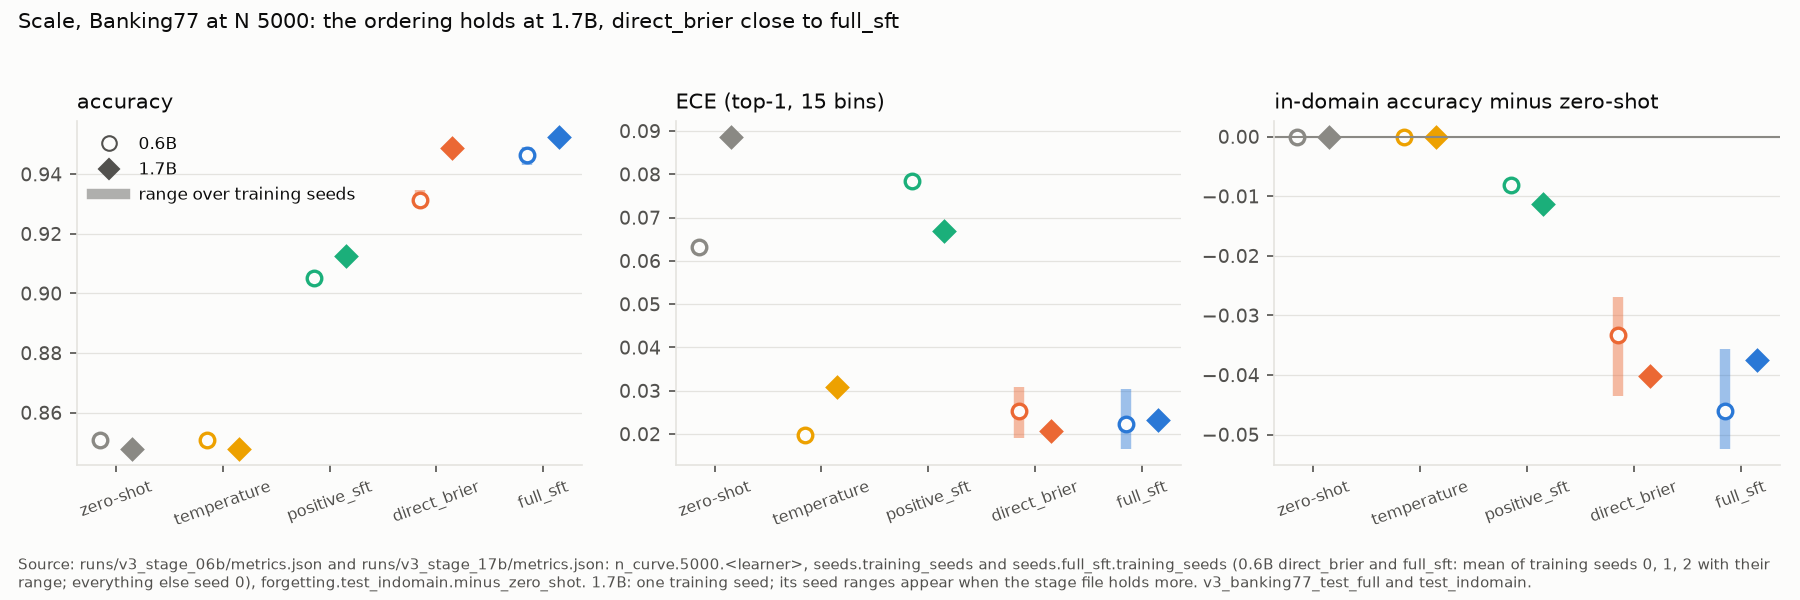
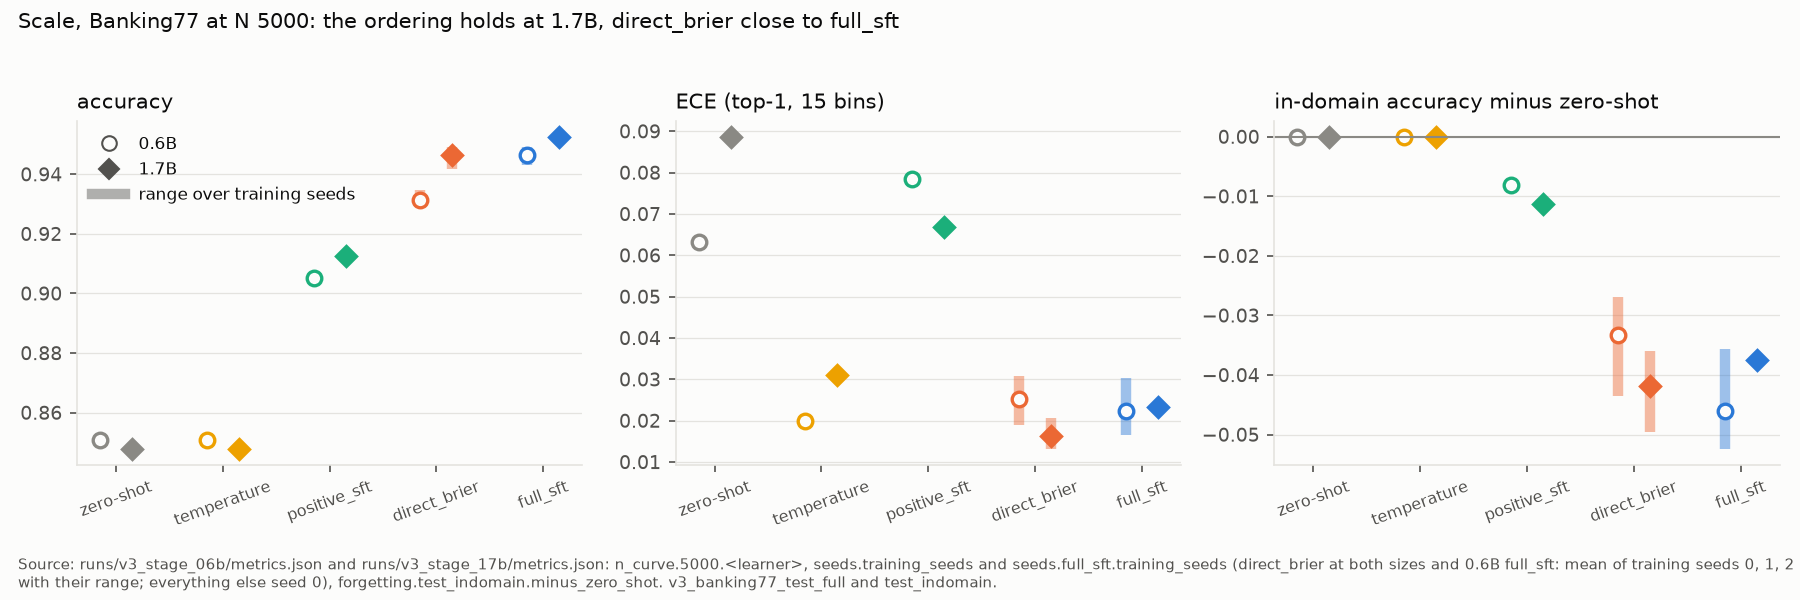
docs: 1.7B seeds in paper, results and figures

diff --git a/scripts/make_figures.py b/scripts/make_figures.py
@@ -545,8 +545,8 @@ def v4_scale(runs: Path, out: Path, written: list[Path]) -> None:
     fig.suptitle("Scale, Banking77 at N 5000: the ordering holds at 1.7B, direct_brier close to full_sft", x=0.01, ha="left", fontsize=10)
     fig.tight_layout(rect=(0, 0.09, 1, 0.95))
     caption(fig, "Source: runs/v3_stage_06b/metrics.json and runs/v3_stage_17b/metrics.json: n_curve.5000.<learner>, seeds.training_seeds and seeds.full_sft.training_seeds "
-                 "(0.6B direct_brier and full_sft: mean of training seeds 0, 1, 2 with their range; everything else seed 0), forgetting.test_indomain.minus_zero_shot. "
-                 "1.7B: one training seed; its seed ranges appear when the stage file holds more. v3_banking77_test_full and test_indomain.")
+                 "(direct_brier at both sizes and 0.6B full_sft: mean of training seeds 0, 1, 2 with their range; everything else seed 0), "
+                 "forgetting.test_indomain.minus_zero_shot. v3_banking77_test_full and test_indomain.")
     save(fig, out, "v4_scale.png", written)
 
 
@@ -588,9 +588,7 @@ FIGURES = (v1_full_splits, v1_subset, v2_cascade, v2_reliability, v2_arm_ece, v3
 EXPECTED = ("v1_full_splits.png", "v1_subset.png", "v2_cascade.png", "v2_reliability.png", "v2_arm_ece.png", "v3_n_curve.png", "v3_coverage.png", "v3_noise.png",
             "v4_offpolicy.png", "v4_noise_sweep.png", "v4_scale.png", "v4_emotion_n_curve.png")
 # Figures waiting for runs, not drawn: the file each would read and what it waits for.
-PENDING = {
-    "v4_scale.png, 1.7B seed ranges": ("runs/v3_stage_17b/metrics.json", "direct_brier seeds 1 and 2 at 1.7B; drawn by v4_scale without a code change once present"),
-}
+PENDING: dict[str, tuple[str, str]] = {}
 
 
 def main(argv: Sequence[str] | None = None) -> int:

diff --git a/docs/RESULTS_v3.md b/docs/RESULTS_v3.md
@@ -307,7 +307,7 @@ The predictions as stated before the runs, each with its verdict.
 - **Two domains.** Banking77, with 10 options and gold always present, so `other` is never right and "never answer other" is free to learn; and emotion, with 6 options and no `other` (section 13). Other option counts or a gold-absent construction may differ.
 - **One logging policy per domain.** sft_06b at epsilon 0.1, .836 accurate on the Banking77 log domain and .542 on emotion (`runs/v3_log_s0/metrics.json:accuracy`, `runs/v3_log_emotion_s0/metrics.json:accuracy`); the emotion log shows a weaker policy changes how many negatives there are (section 13), and a more exploratory one would change which.
 - **A simulated feedback channel.** Outcomes come from gold labels, revealed perfectly or flipped symmetrically at a known rate; real deployment feedback is delayed, biased towards some errors and of unknown noise rate, which the inversion needs.
-- **Two sizes, one seed at the larger.** 0.6B for everything; 1.7B for the N 5000 comparison of three learners, on one training seed and one log (section 12).
+- **Two sizes, one seed for the baselines at the larger.** 0.6B for everything; 1.7B for the N 5000 comparison of three learners on one log, with direct_brier on three training seeds and positive_sft and full_sft on one (section 12).
 - **The checkpoint grid.** Checkpoints are every 50 steps. At N 2000 direct_log and ips_log peaked at step 50, the first candidate, so a finer grid could favour the log-score arms there (section 11).
 - **The noise sweep has one seed per rate.** The rates are paired through nested flips, which makes the trends over f firmer than independent draws would, but the learner comparison at a given rate carries training-seed variance (section 4).
 - **positive_sft has one seed.** Its side of every comparison carries no seed variance; direct_brier's and full_sft's three seeds each span .6 points on Banking77 accuracy, which suggests it is small. full_sft was run on three seeds at N 5000 (section 3); at N 500 and 2000 every learner has seed 0 only.
@@ -319,7 +319,7 @@ The predictions as stated before the runs, each with its verdict.
 
 v3 shows that when a deployed model sees only the correctness of its own actions on a new domain, training on that signal with a pathwise Brier loss beats discarding the failures, by 2.4 to 2.7 points of accuracy from 2000 logged interactions and by about .05 to .06 ECE at every N, and that it closes 69 to 91 percent of the accuracy gap between zero-shot and full-label SFT. It does not show that RLCD approaches full labels as feedback grows, since the 1.5-point gap at N 5000 (seed means of both) is no smaller than at N 500, and it does not show calibration robust to noisy feedback, where a proper score calibrates to the channel and needs a known noise rate to be undone. Together with v2, the claim that survives is narrow: RLCD adds value over positive-only SFT when the only feedback is partial, and nowhere else that was tested.
 
-Phase 4 adds four checks (sections 4, 11, 12 and 13), and they leave that claim standing. Importance weighting adds nothing on this log, and a log score in place of the Brier score is a choice within the same pathwise family, with a small lead on Brier and NLL and more in-domain forgetting. At 1.7B the ordering holds and direct_brier comes within .4 points of full-label SFT, with an interval covering 0, on one seed. Under noise, RLCD's smaller accuracy loss than positive-only SFT holds at flip rates 0.1 and 0.2 and is gone at 0.3. On a second domain, emotion, with a logging policy wrong on more than half the log, RLCD leads positive-only SFT at every N and by 21.7 points at N 5000, and the gap to full labels is larger, 4.3 points (section 13).
+Phase 4 adds four checks (sections 4, 11, 12 and 13), and they leave that claim standing. Importance weighting adds nothing on this log, and a log score in place of the Brier score is a choice within the same pathwise family, with a small lead on Brier and NLL and more in-domain forgetting. At 1.7B the ordering holds on three training seeds of direct_brier, and its gap to full-label SFT shrinks from 1.5 points at 0.6B to .6 points [.2, 1.1], against a single full_sft seed at 1.7B. Under noise, RLCD's smaller accuracy loss than positive-only SFT holds at flip rates 0.1 and 0.2 and is gone at 0.3. On a second domain, emotion, with a logging policy wrong on more than half the log, RLCD leads positive-only SFT at every N and by 21.7 points at N 5000, and the gap to full labels is larger, 4.3 points (section 13).
 
 ## 11. Off-policy baselines
 
@@ -421,12 +421,16 @@ On v3_banking77_test_full at N 5000 (`L:n_curve.5000`; 0.6B from `S:n_curve.5000
 | direct_brier | .949 [.941, .957] | .021 [.015, .028] | .079 | .188 | .929 | .931 (.929, .935) | .025 |
 | full_sft | .953 [.945, .960] | .023 [.018, .030] | .072 | .162 | .947 | .946 (.943, .949) | .022 |
 
-Paired differences at 1.7B (`L:n_curve.5000.direct_brier_minus_positive_sft`, `.direct_brier_minus_full_sft`) and the 0.6B seed-mean counterparts (`S:seeds.training_seed_mean_minus_positive_sft`, `S:seeds.training_seed_mean_minus_full_sft_seed_mean`):
+Session L (decision 69) added direct_brier at N 5000 for training seeds 1 and 2 on the same 1.7B log, at commit 344019b, not dirty, fp16 without fallback, selected steps 450 and 250 (`runs/v3_17b_direct_brier_n5000_s{1,2}/train_summary.json:best_step`). Over the three seeds (`L:seeds.training_seeds`), direct_brier's accuracy is .947 (.942, .949), ECE .016 (.013, .021), Brier .084 (.079, .093) and NLL .192 (.182, .205); the accuracy range, .7 points, is like 0.6B's .6.
+
+Paired differences at 1.7B, seed 0 (`L:n_curve.5000.direct_brier_minus_positive_sft`, `.direct_brier_minus_full_sft`) and the three-seed mean against the single seed of each baseline (`L:seeds.training_seed_mean_minus_positive_sft`, `L:seeds.training_seed_mean_minus_full_sft`), and the 0.6B seed-mean counterparts (`S:seeds.training_seed_mean_minus_positive_sft`, `S:seeds.training_seed_mean_minus_full_sft_seed_mean`):
 
 | | accuracy | ECE | Brier | NLL |
 |---|---|---|---|---|
-| 1.7B direct_brier minus positive_sft | +.036 [+.028, +.045] | -.046 [-.054, -.037] | -.075 [-.088, -.061] | -.357 [-.411, -.306] |
-| 1.7B direct_brier minus full_sft | -.004 [-.010, +.002] | -.002 [-.008, +.004] | +.007 [+.001, +.013] | +.026 [+.013, +.040] |
+| 1.7B direct_brier seed 0 minus positive_sft | +.036 [+.028, +.045] | -.046 [-.054, -.037] | -.075 [-.088, -.061] | -.357 [-.411, -.306] |
+| 1.7B direct_brier seed 0 minus full_sft | -.004 [-.010, +.002] | -.002 [-.008, +.004] | +.007 [+.001, +.013] | +.026 [+.013, +.040] |
+| 1.7B seed mean minus positive_sft | +.034 [+.026, +.041] | -.051 [-.057, -.040] | -.070 [-.083, -.057] | -.353 [-.409, -.303] |
+| 1.7B seed mean minus full_sft | -.006 [-.011, -.002] | -.007 [-.011, +.000] | +.012 [+.006, +.017] | +.030 [+.018, +.043] |
 | 0.6B seed mean minus positive_sft | +.026 [+.019, +.033] | -.053 [-.059, -.044] | -.060 [-.071, -.048] | -.389 [-.443, -.333] |
 | 0.6B seed mean minus full_sft seed mean | -.015 [-.020, -.010] | +.003 [-.001, +.008] | +.027 [+.020, +.034] | +.082 [+.061, +.101] |
 
@@ -444,25 +448,27 @@ Forgetting at 1.7B, minus its own zero-shot (test_indomain .952, test_unseen_int
 | learner | test_indomain accuracy | test_indomain ECE | test_unseen_intents accuracy | test_unseen_intents ECE |
 |---|---|---|---|---|
 | positive_sft | -.011 [-.014, -.008] | +.021 | +.027 [+.021, +.033] | -.012 |
-| direct_brier | -.040 [-.045, -.036] | +.006 [+.002, +.010] | +.012 [+.004, +.020] | -.028 |
+| direct_brier seed 0 | -.040 [-.045, -.036] | +.006 [+.002, +.010] | +.012 [+.004, +.020] | -.028 |
+| direct_brier seed 1 | -.050 [-.054, -.045] | +.006 [+.003, +.011] | +.009 [+.000, +.017] | -.028 |
+| direct_brier seed 2 | -.036 [-.040, -.032] | -.006 [-.007, +.001] | +.011 [+.003, +.019] | -.036 |
 | full_sft | -.038 [-.042, -.033] | +.025 [+.021, +.029] | +.011 [+.003, +.019] | -.014 |
 
-Coverage at .80 / .90 / .95 on v3_banking77_test_full, accuracy of the kept answers in brackets (`L:coverage`, `S:coverage`): 1.7B direct_brier .897 (.981) / .844 (.985) / .793 (.989) against .868 (.974) / .809 (.983) / .743 (.986) at 0.6B seed 0; 1.7B full_sft .940 (.978) / .907 (.986) / .868 (.990) against .947 (.973) / .918 (.979) / .888 (.982); the 1.7B temperature learner keeps .026 at .95 against .189 at 0.6B. The predicted-`other` rate is .067 for zero-shot and 0 for direct_brier and full_sft (`L:other`).
+Coverage at .80 / .90 / .95 on v3_banking77_test_full, accuracy of the kept answers in brackets (`L:coverage`, `S:coverage`): 1.7B direct_brier .897 (.981) / .844 (.985) / .793 (.989) against .868 (.974) / .809 (.983) / .743 (.986) at 0.6B seed 0, and .889 (.981) / .841 (.986) / .779 (.991) and .837 (.984) / .769 (.989) / .677 (.994) for 1.7B seeds 1 and 2; 1.7B full_sft .940 (.978) / .907 (.986) / .868 (.990) against .947 (.973) / .918 (.979) / .888 (.982); the 1.7B temperature learner keeps .026 at .95 against .189 at 0.6B. The predicted-`other` rate is .067 for zero-shot and 0 for direct_brier and full_sft (`L:other`).
 
 ![0.6B against 1.7B at N 5000: accuracy, ECE and in-domain forgetting](figures/v4_scale.png)
 
-`figures/v4_scale.png`: the 1.7B table above against 0.6B for every learner: accuracy, ECE and in-domain accuracy minus zero-shot, with the range over training seeds where a size has more than one (0.6B direct_brier and full_sft); 1.7B is one seed (`S:n_curve.5000`, `S:seeds`, `S:forgetting`, `L:n_curve.5000`, `L:forgetting`).
+`figures/v4_scale.png`: the 1.7B table above against 0.6B for every learner: accuracy, ECE and in-domain accuracy minus zero-shot, with the mean and range over training seeds where a size has more than one (direct_brier at both sizes, 0.6B full_sft); the other learners are seed 0 (`S:n_curve.5000`, `S:seeds`, `S:forgetting`, `L:n_curve.5000`, `L:seeds`, `L:forgetting`).
 
 **Selection.** Selected steps 100 (positive_sft), 250 (full_sft) and 400 (direct_brier) (`runs/v3_17b_<arm>_n5000_s0/train_summary.json:best_step`). At 1.7B positive_sft's selected adapter beats its start on the criterion (-.322 against -.358), which no positive_sft run did at 0.6B; after its best step the criterion falls to -.539 by step 1407, while direct_brier's flattens near -.165 and full_sft's keeps falling to -.249.
 
 **The prediction, reported as stated.**
-- *The ordering holds,* with direct_brier within .4 points of full_sft (-.004 [-.010, +.002], interval covering 0, one seed) and ahead of positive_sft by 3.6 points. ECE is level between direct_brier and full_sft (-.002); full_sft keeps a small lead on Brier and NLL.
-- *Every gap smaller: fails in part.* The gap to full_sft shrinks (-.015 for the 0.6B seed means, -.004 at 1.7B), and the gap over positive_sft grows (+.026 to +.036).
-- *The premise failed.* On v3_banking77_test_full the 1.7B zero-shot start is level with 0.6B's (.848 against .851, -.003 [-.014, +.008]) and less calibrated (ECE .089 against .063); .852 is the test_banking77 figure. What changes with size is how much each learner gains: direct_brier at 1.7B is +.020 [+.011, +.028] above its 0.6B seed 0 run and above all three 0.6B seeds, while full_sft (+.006) and positive_sft (+.008) gain amounts with intervals covering 0. The larger model helps the outcome-only learner most.
+- *The ordering holds* on all three direct_brier seeds. Its seed mean is .6 points below full_sft's single seed, -.006 [-.011, -.002], an interval that excludes 0 where seed 0 alone gave -.004 [-.010, +.002], and 3.4 points ahead of positive_sft. ECE is level or slightly lower than full_sft's (-.007 [-.011, +.000]); full_sft keeps a small lead on Brier and NLL.
+- *Every gap smaller: fails in part.* The gap to full_sft shrinks from 1.5 points (-.015, the 0.6B seed means) to .6 (-.006, the 1.7B seed mean against one full_sft seed), and the gap over positive_sft grows (+.026 to +.034).
+- *The premise failed.* On v3_banking77_test_full the 1.7B zero-shot start is level with 0.6B's (.848 against .851, -.003 [-.014, +.008]) and less calibrated (ECE .089 against .063); .852 is the test_banking77 figure. What changes with size is how much each learner gains: direct_brier at 1.7B is +.020 [+.011, +.028] above its 0.6B seed 0 run, and all three 1.7B seeds (.942 to .949) are above all three 0.6B seeds (.929 to .935), while full_sft (+.006) and positive_sft (+.008) gain amounts with intervals covering 0. The larger model helps the outcome-only learner most.
 
-**Forgetting at both sizes.** direct_brier keeps in-domain calibration: its in-domain ECE moves by +.006 at 1.7B against +.025 for full_sft, as at 0.6B (within .010, against .015 to .043; section 5). Its in-domain accuracy cost is like full_sft's: -.040 against -.038 at 1.7B, and seed ranges of -.027 to -.043 against -.036 to -.052 at 0.6B. Its gain on the unseen intents is smaller at 1.7B (+.012 against +.020 to +.026 at 0.6B).
+**Forgetting at both sizes.** direct_brier keeps in-domain calibration: its in-domain ECE moves by -.006 to +.006 across the three 1.7B seeds against +.025 for full_sft, as at 0.6B (within .010, against .015 to .043; section 5). Its in-domain accuracy cost is like full_sft's: -.036 to -.050 across seeds against -.038 at 1.7B, and seed ranges of -.027 to -.043 against -.036 to -.052 at 0.6B. Its gain on the unseen intents is smaller at 1.7B (+.009 to +.012 against +.020 to +.026 at 0.6B).
 
-Everything at 1.7B is one training seed on one log. The direct_brier and full_sft comparison and the forgetting figures rest on that one seed; direct_brier's gain from the larger model is the firmest result, with its interval above 0 and the 1.7B value above every 0.6B seed.
+Everything at 1.7B is one log, and positive_sft and full_sft are one training seed each, so the 1.7B gaps carry direct_brier's seed variance but not theirs. direct_brier's gain from the larger model is the firmest result, with its paired interval above 0 and every 1.7B seed above every 0.6B seed.
 
 ## 13. A second domain: emotion
 

diff --git a/docs/PAPER.md b/docs/PAPER.md
@@ -15,7 +15,7 @@ The abstract's numbers are cited where they recur in Section 5 and the appendix.
 A decision head reads a state and a list of options and returns a probability for each option in one forward pass; a caller answers when the top probability clears a threshold and escalates otherwise. Once deployed, it usually observes only whether the option it chose was right: logged bandit feedback. We adapt such a head, a LoRA adapter on Qwen3-0.6B-Base and 1.7B-Base, from that feedback, and report three results.
 1. **A proper score of the sampled action's own probability is not a usable REINFORCE reward.** That a detached, parameter-dependent reward drops the pathwise term of the gradient is known; we give the corollary for this reward. Against a group-mean baseline every wrong action earns at least the gold action's reward, the lowest-probability wrong action sampled gets the largest advantage, and at K = 2 the signal is exactly zero. In practice it cut one score task's accuracy from .636 to .111.
 2. **With full labels, no bandit objective beat cross-entropy plus one temperature on calibration under label-space shift.** This replicates a concurrent finding under a stricter protocol: transfer to unseen label schemas, a continued cross-entropy control, and four bandit arms under one temperature. The best arm was level, -.002 [-.006, +.004].
-3. **From logged bandit feedback alone, Chosen-Action Proper Scoring (CAPS) works.** CAPS is the direct method with a proper score: it fits the chosen action's probability to its logged outcome by the pathwise gradient. On Banking77 it beats fine-tuning on confirmed answers only, which is positive-unlabeled learning with the negatives discarded, by +2.6 points [1.9, 3.3] in accuracy, .053 in ECE and .0095 in AURC. It stays 1.5 points [1.0, 2.0] below full-label training at 0.6B and .4 points [-1.0, +.2] below it at 1.7B. Propensity weights add nothing, as expected of a well-specified regression. Under feedback flipped at a known rate, CAPS calibrates to the noisy channel without any correction, backward correction maps it back, and early stopping on the held-out log-likelihood of logged outcomes prevents the memorisation of the single noisy draw.
+3. **From logged bandit feedback alone, Chosen-Action Proper Scoring (CAPS) works.** CAPS is the direct method with a proper score: it fits the chosen action's probability to its logged outcome by the pathwise gradient. On Banking77 it beats fine-tuning on confirmed answers only, which is positive-unlabeled learning with the negatives discarded, by +2.6 points [1.9, 3.3] in accuracy, .053 in ECE and .0095 in AURC. It stays 1.5 points [1.0, 2.0] below full-label training at 0.6B and .6 points [.2, 1.1] below it at 1.7B, so the gap shrinks with scale (three CAPS seeds, one full-label seed at 1.7B). Propensity weights add nothing, as expected of a well-specified regression. Under feedback flipped at a known rate, CAPS calibrates to the noisy channel without any correction, backward correction maps it back, and early stopping on the held-out log-likelihood of logged outcomes prevents the memorisation of the single noisy draw.
 
 ## 1. Introduction
 
@@ -35,7 +35,7 @@ A decision head reads a state and a list of options and returns a probability fo
 **What the paper does not show.**
 - The feedback is simulated from gold labels, cleanly or with symmetric flips at a known rate.
 - Two adaptation domains, Banking77 and emotion, with one log each.
-- 1.7B is one seed [pending session L].
+- At 1.7B, CAPS has three training seeds and the baselines one.
 - No counterfactual-risk policy learner (POEM or BanditNet), no doubly robust arm and no off-policy value estimate of the learned policy (Section 6).
 - The gap to full labels does not shrink as the log grows (RESULTS_v3 section 8).
 
@@ -192,11 +192,12 @@ The residual is therefore the variance of one noisy draw per interaction, not a 
 
 ![Noise-rate sweep](figures/v4_noise_sweep.png)
 
-**Scale** (RESULTS_v3 section 12, `L:n_curve.5000`; Figure `figures/v4_scale.png`; Table A.5). At 1.7B, with its own log:
-- CAPS-Brier reaches .949 against full_sft's .953, -.004 [-.010, +.002] on one seed, and AURC .0066 against .0053, +.0013 [+.0004, +.0022]; Cov@.05 is level, -.002 [-.015, +.001] (`L:n_curve.5000.direct_brier_minus_full_sft`);
-- it leads positive_sft by +.036 [+.028, +.045] in accuracy, -.0111 [-.0145, -.0083] in AURC and +.093 [+.065, +.115] in Cov@.05 (`L:n_curve.5000.direct_brier_minus_positive_sft`).
+**Scale** (RESULTS_v3 section 12, `L:n_curve.5000`, `L:seeds`; Figure `figures/v4_scale.png`; Table A.5). At 1.7B, with its own log, CAPS-Brier on three training seeds against one seed of each baseline:
+- *Seeds:* accuracy .947 (.942, .949), ECE .016 (.013, .021), AURC .0073 (.0066, .0085) (`L:seeds.training_seeds`).
+- *Against full_sft:* .6 points below, -.006 [-.011, -.002], with ECE -.007 [-.011, +.000], AURC +.0021 [+.0012, +.0030] and Cov@.05 -.0068 [-.0187, -.0002] (`L:seeds.training_seed_mean_minus_full_sft`). Seed 0 alone had given -.004 [-.010, +.002] (`L:n_curve.5000.direct_brier_minus_full_sft`).
+- *Against positive_sft:* +.034 [+.026, +.041] in accuracy, -.0104 [-.0135, -.0078] in AURC and +.088 [+.062, +.108] in Cov@.05 (`L:seeds.training_seed_mean_minus_positive_sft`).
 
-The larger model helps the learner from logged bandit feedback most (RESULTS_v3 section 12). The 1.7B seed ranges are [pending session L].
+The gap to full-label training shrinks with scale, from 1.5 points [1.0, 2.0] at 0.6B (seed means of both) to .6 points [.2, 1.1] at 1.7B, against a single full_sft seed there. The larger model helps the learner from logged bandit feedback most: every 1.7B CAPS-Brier seed is above every 0.6B one (RESULTS_v3 section 12).
 
 ![Scale](figures/v4_scale.png)
 
@@ -230,7 +231,7 @@ The phase 4 plan predicted that "predictions 1 and 2 hold on emotion from N 2000
 - **Domains and sizes.**
   - Two adaptation domains with one log each; on emotion, positive_sft and full_sft have one seed.
   - One logging policy per domain at epsilon 0.1: .836 accurate on Banking77, .542 on emotion.
-  - Two sizes, with 1.7B on one seed [pending session L].
+  - Two sizes; at 1.7B, CAPS-Brier has three training seeds and positive_sft and full_sft one each, so the 1.7B gaps carry no baseline seed variance.
   - The noise sweep has one seed per rate.
 - **Missing off-policy arms.** The propensity-weighted arms reweight the direct-method loss; there is no counterfactual-risk policy learner (POEM or BanditNet; Swaminathan and Joachims 2015a; Joachims, Swaminathan and de Rijke 2018), no doubly robust arm (Dudík, Langford and Li 2011), and no self-normalised off-policy estimate of the learned policy's value from the log. The no-gain result is shown against reweighted regression, not against the methods built around the weights.
 - **Label noise, judged by two language models, no human.**
@@ -242,7 +243,7 @@ The phase 4 plan predicted that "predictions 1 and 2 hold on emotion from N 2000
 
 ## 7. Conclusion
 
-A decision head that can only see whether its chosen action was right should be fitted as the direct method with a proper score: the chosen action's probability against its own logged outcome, by the pathwise gradient. That is CAPS, OpenJev-RLCD's stage 1 restricted to the one component partial feedback reveals. With 2000 interactions it beats positive-only fine-tuning, which is positive-unlabeled learning with the negatives discarded, in accuracy, calibration and selective risk on both domains (Sections 5.3 and 5.4), and on Banking77 it needs no propensity weights (Section 5.3); under feedback flipped at a known rate it learns the noisy posterior, backward correction maps it back, and early stopping on the held-out log score of logged outcomes stops it before it memorises the single noisy draw (Section 5.3). The two negative results frame it. Scoring the sampled action's own probability as a detached REINFORCE reward is a corollary of the general rule that detaching a parameter-dependent reward drops the pathwise term, and it rewards wrong actions (Sections 3 and 5.2); this is distinct from proper-score rewards on a separately emitted confidence, and from the standard-deviation normalisation of GRPO, which our mean-only baseline does not use. With full labels, consistent with OpenJev-RLCD, no bandit objective beats cross-entropy plus one temperature, here under transfer to unseen schemas (Section 5.2). CAPS stays below full-label training on both domains (Sections 5.3 and 5.4), so failures are worth keeping, not a substitute for labels.
+A decision head that can only see whether its chosen action was right should be fitted as the direct method with a proper score: the chosen action's probability against its own logged outcome, by the pathwise gradient. That is CAPS, OpenJev-RLCD's stage 1 restricted to the one component partial feedback reveals. With 2000 interactions it beats positive-only fine-tuning, which is positive-unlabeled learning with the negatives discarded, in accuracy, calibration and selective risk on both domains (Sections 5.3 and 5.4), and on Banking77 it needs no propensity weights (Section 5.3); under feedback flipped at a known rate it learns the noisy posterior, backward correction maps it back, and early stopping on the held-out log score of logged outcomes stops it before it memorises the single noisy draw (Section 5.3). The two negative results frame it. Scoring the sampled action's own probability as a detached REINFORCE reward is a corollary of the general rule that detaching a parameter-dependent reward drops the pathwise term, and it rewards wrong actions (Sections 3 and 5.2); this is distinct from proper-score rewards on a separately emitted confidence, and from the standard-deviation normalisation of GRPO, which our mean-only baseline does not use. With full labels, consistent with OpenJev-RLCD, no bandit objective beats cross-entropy plus one temperature, here under transfer to unseen schemas (Section 5.2). CAPS stays below full-label training on both domains (Sections 5.3 and 5.4), though on Banking77 the gap shrinks from 1.5 points at 0.6B to .6 at 1.7B (against one full-label seed), so failures are worth keeping, not a substitute for labels.
 
 ## 8. Reproducibility
 
@@ -253,6 +254,7 @@ A decision head that can only see whether its chosen action was right should be 
   - b6b9e85 and 409c983: the off-policy runs;
   - 36e8ee1: the noise sweep;
   - c9e29c6: the 1.7B runs;
+  - 344019b: the 1.7B CAPS-Brier seeds 1 and 2;
   - c86d322: the emotion log and runs;
   - b9c0257: AURC and Cov@eps added to every run and stage file, earlier values unchanged.
 - **Run provenance:** every run's `metrics.json` records its commit, dirty flag, data sha256 and adapter sha256.
@@ -457,7 +459,7 @@ Source: RESULTS_v3 section 4, `N:by_rate.<f>.<arm>` and `N:clean.<arm>`. "Final 
 
 ### A.5 Scale: 1.7B against 0.6B at N 5000
 
-Source: RESULTS_v3 section 12, `L:n_curve.5000`, `S:n_curve.5000`, `S:seeds`. The 1.7B seed ranges are [pending session L].
+Source: RESULTS_v3 section 12, `L:n_curve.5000`, `L:seeds`, `S:n_curve.5000`, `S:seeds`. The 1.7B columns are seed 0; CAPS-Brier's three-seed row and differences follow the tables.
 
 | learner | 1.7B accuracy | 1.7B ECE | 1.7B Brier | 1.7B NLL | 1.7B AURC | 1.7B Cov@.05 | 0.6B accuracy, seed 0 | 0.6B accuracy, seed mean (range) | 0.6B ECE, seed mean |
 |---|---|---|---|---|---|---|---|---|---|
@@ -469,8 +471,12 @@ Source: RESULTS_v3 section 12, `L:n_curve.5000`, `S:n_curve.5000`, `S:seeds`. Th
 
 | 1.7B paired difference | accuracy | ECE | Brier | NLL | AURC | Cov@.05 |
 |---|---|---|---|---|---|---|
-| CAPS-Brier minus positive_sft | +.036 [+.028, +.045] | -.046 [-.054, -.037] | -.075 [-.088, -.061] | -.357 [-.411, -.306] | -.0111 [-.0145, -.0083] | +.093 [+.065, +.115] |
-| CAPS-Brier minus full_sft | -.004 [-.010, +.002] | -.002 [-.008, +.004] | +.007 [+.001, +.013] | +.026 [+.013, +.040] | +.0013 [+.0004, +.0022] | -.002 [-.015, +.001] |
+| CAPS-Brier seed 0 minus positive_sft | +.036 [+.028, +.045] | -.046 [-.054, -.037] | -.075 [-.088, -.061] | -.357 [-.411, -.306] | -.0111 [-.0145, -.0083] | +.093 [+.065, +.115] |
+| CAPS-Brier seed 0 minus full_sft | -.004 [-.010, +.002] | -.002 [-.008, +.004] | +.007 [+.001, +.013] | +.026 [+.013, +.040] | +.0013 [+.0004, +.0022] | -.002 [-.015, +.001] |
+| CAPS-Brier seed mean minus positive_sft | +.034 [+.026, +.041] | -.051 [-.057, -.040] | -.070 [-.083, -.057] | -.353 [-.409, -.303] | -.0104 [-.0135, -.0078] | +.088 [+.062, +.108] |
+| CAPS-Brier seed mean minus full_sft | -.006 [-.011, -.002] | -.007 [-.011, +.000] | +.012 [+.006, +.017] | +.030 [+.018, +.043] | +.0021 [+.0012, +.0030] | -.0068 [-.0187, -.0002] |
+
+CAPS-Brier at 1.7B over training seeds 0, 1 and 2, mean (range) (`L:seeds.training_seeds`): accuracy .947 (.942, .949), ECE .016 (.013, .021), Brier .084 (.079, .093), NLL .192 (.182, .205), AURC .0073 (.0066, .0085), Cov@.05 .993 (.983, .998). The differences above put the seed mean against the single seed of each baseline (`L:seeds.training_seed_mean_minus_positive_sft`, `L:seeds.training_seed_mean_minus_full_sft`).
 
 ### A.6 Full labels: unseen-schema ECE, 0.6B, three seeds
 

diff --git a/docs/METHOD.md b/docs/METHOD.md
@@ -64,7 +64,7 @@ The learner trains on the first 0.9 N interactions of the log. It keeps the chec
 Selective prediction is scored by two metrics for a caller who thresholds the top-1 probability [geifman2017selective]: AURC, the area under the risk-coverage curve (lower is better), and Cov@eps, the largest share of answers a threshold keeps with error at most eps (higher is better).
 
 - **Temperature scaling.** A single T fitted post hoc to the logged outcomes is global and leaves every prediction unchanged. It is the cheap baseline any method must beat. It reaches the lowest or joint-lowest ECE at every N, .020 at N 5000, but keeps zero-shot accuracy, .851, while CAPS reaches .929 (RESULTS_v3 section 2, `S:n_curve.5000`). It changes the level of the probabilities, not their ranking: AURC moves only from .0333 to .0328 and Cov@.05 from .756 to .765 (`S:n_curve.5000.{zero_shot,temperature}`).
-- **Full-label SFT.** Cross-entropy on gold for every interaction is the upper bound, at the cost of one label per interaction. At N 5000, CAPS's seed mean is 1.5 points below it, -.015 [-.020, -.010], with ECE level (RESULTS_v3 section 3, `S:seeds.training_seed_mean_minus_full_sft_seed_mean`). At 1.7B it is .004 below, with an interval covering 0, on one seed (RESULTS_v3 section 12, `runs/v3_stage_17b/metrics.json:n_curve.5000.direct_brier_minus_full_sft`).
+- **Full-label SFT.** Cross-entropy on gold for every interaction is the upper bound, at the cost of one label per interaction. At N 5000, CAPS's seed mean is 1.5 points below it, -.015 [-.020, -.010], with ECE level (RESULTS_v3 section 3, `S:seeds.training_seed_mean_minus_full_sft_seed_mean`). At 1.7B its three-seed mean is .6 points below full-label SFT's single seed, -.006 [-.011, -.002], so the gap shrinks with scale (RESULTS_v3 section 12, `runs/v3_stage_17b/metrics.json:seeds.training_seed_mean_minus_full_sft`).
 - **Positive-only SFT.** Cross-entropy on the confirmed actions, discarding the failures: positive-unlabeled learning [elkan2008pu], and what a practitioner does without the method. CAPS leads it by 2.4 to 2.7 points of accuracy from N 2000, by .052 to .060 ECE at every N, and at N 5000 by -.0092 [-.0118, -.0068] in AURC and +.069 [+.046, +.094] in Cov@.05 (RESULTS_v3 section 2, `S:n_curve.<N>.direct_brier_minus_positive_sft`). It grows confident on its mistakes.
 - **REINFORCE-style objectives on logged data.** The logged action as the single sample, reward r - p_a, a batch-mean baseline and a clipped importance weight: level with CAPS on accuracy (-.001 at both N), slightly worse on NLL (+.027 and +.019, intervals above 0) (RESULTS_v3 section 11, `S:n_curve.<N>.off_policy.outcome_minus_p_log.minus_direct_brier`). A proper score as the reward fails outright (section 3).
 
